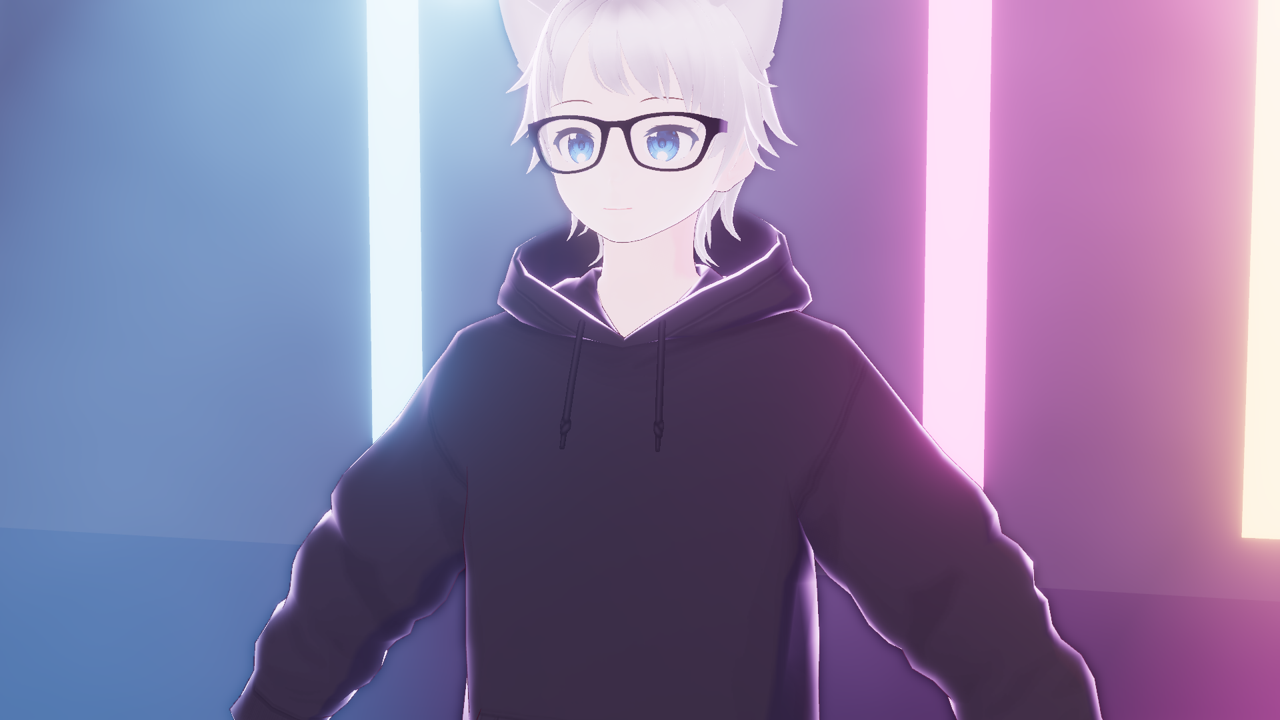
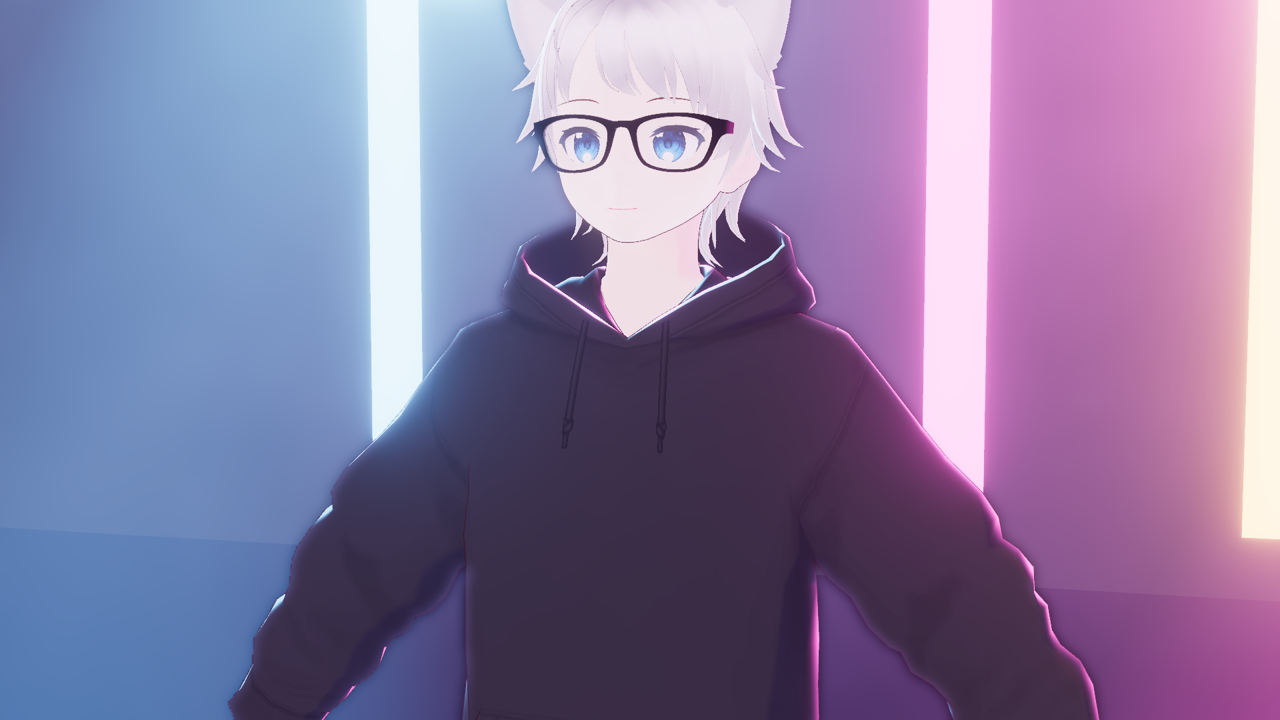
Record the character lighting evidence after the final-review fixes.

diff --git a/docs/evaluation/character-lighting.md b/docs/evaluation/character-lighting.md
@@ -1,6 +1,6 @@
 # Character lighting check
 
-Date: 2026-11-19. Contract: [character lighting](../../spdd/prompt/2026-11-19-character-lighting.md). Design: [character lighting design](../superpowers/specs/2026-11-19-character-lighting-design.md). Issues: #73 (MAT-01), #45 (ENV-07). Branch: `liltoon-avatar-lighting-f03807ca`. The last code commit is `13b225b`; this page is in the next commit. The baseline is `main` at `902af37`.
+Date: 2026-11-19. Contract: [character lighting](../../spdd/prompt/2026-11-19-character-lighting.md). Design: [character lighting design](../superpowers/specs/2026-11-19-character-lighting-design.md). Issues: #73 (MAT-01), #45 (ENV-07). Branch: `liltoon-avatar-lighting-f03807ca`. The last code commit is `ec02109`. The final-review fixes (`884f8a7` to `ec02109`) masked the rim to the lit side and changed how an avatar gets its ambient; the look, stall, and shadow results below are from those commits. The baseline is `main` at `902af37`.
 
 GPU time: unknown (#305).
 
@@ -16,29 +16,31 @@ GPU time: unknown (#305).
 
 ### Before and after
 
-Camera at [0, 1.3, 1.6], field of view 35°, idle animation off, 30 s after `scene_replace` so that a large avatar has loaded. "Before" is `main` with its default rig (one white directional light, intensity 3, and the fixed ambient light). "After" is `13b225b` with the new default rig (key, back, and fill lights). The value is the mean luminance of a head band (200 px under the top of the character) after / before, on pixels that are opaque in both images.
+Camera at [0, 1.3, 1.6], field of view 35°, idle animation off, 30 s after `scene_replace` so that a large avatar has loaded. "Before" is `main` with its default rig (one white directional light, intensity 3, and the fixed ambient light). "After" is `3671526` (the avatar path is the same at `ec02109`) with the new default rig (key, back, and fill lights). The value is the mean luminance of a head band (200 px under the top of the character) after / before, on pixels that are opaque in both images.
 
 | Avatar | Head band after / before |
 | --- | --- |
-| Catboy | 1.056 |
-| Avatar 2 | 1.068 |
-| Avatar 3 | 1.059 |
-| Avatar 4 | 1.063 |
-| Avatar 5 | 1.102 |
-| Avatar 6 | 0.984 |
-| VRM 1 sample | 1.061 |
-| Avatar 8 | 0.998 |
+| Avatar | New rig on the branch / `main` rig on `main` | `main` rig on the branch / `main` rig on `main` |
+| --- | --- | --- |
+| Catboy | 1.041 | 1.002 |
+| Avatar 2 | 1.048 | 1.002 |
+| Avatar 3 | 1.052 | 1.003 |
+| Avatar 4 | 1.034 | 1.003 |
+| Avatar 5 | 1.016 | 1.003 |
+| Avatar 6 | 0.935 | 1.001 |
+| VRM 1 sample | 1.038 | 1.001 |
+| Avatar 8 | 0.961 | 1.002 |
 
-Pass: no face is more than 10 % darker. With the `main` rig on both builds, the ratio is 1.000 to 1.003 for all eight avatars, so an existing show with its own lights keeps its face level.
+Pass: no face is more than 10 % darker. The second column is the same scene (the `main` default light, no Ambient light entity) on both builds: the face level does not change. A scene with an Ambient light entity was not measured.
 
 ![Catboy before (main) and after (branch)](character-lighting/catboy-before-after.png)
 
-The back light gives a rim on the hair, the shoulders, and the arms. On dark cloth at grazing angles, the rim is a wide band. A rim width sweep (exponent 4.75 to 10) changed the band only a small amount, because the cloth geometry is at a grazing angle there. The owner's look check decides this.
+The back light gives a rim on the hair, the shoulders, and the top of the arms. The first build also put a rim on the lower side of the arms and on the hem, because the rim did not depend on the side of the light. The rim now has a soft light-side mask (`smoothstep(-0.1, 0.4, N·L)`), and the rim on the lower edges is gone. The owner's look check decides the width of the rim on dark cloth.
 
 ### Tuned values
 
 - `EXPONENT` is `narrow 16`, `wide 4` (was 8 and 1.5). The default Rim Width 0.5 gives exponent 10.
-- The defaults stay `rimStrength 1`, `rimWidth 0.5`, `rimTint #ffffff`, `shadowStrength 0.6`, `environmentFill 1`. `CHARACTER_FILL` and `CHARACTER_AMBIENT` stay 0.5.
+- The defaults stay `rimStrength 1`, `rimWidth 0.5`, `rimTint #ffffff`, `shadowStrength 0.6`, `environmentFill 1`. `CHARACTER_FILL` and `CHARACTER_AMBIENT` stay 0.5. `CHARACTER_AMBIENT` now scales the ambient term of an avatar MToon material in its lighting model; it is not a separate light. With the fill, the total ambient of an avatar at the default values is the scene ambient. A material that is not MToon, and an MToon prop or environment, keep the scene ambient as on `main`.
 - Demo show: haze density 1 → 0.5 and intensity 2.5 → 1.2; the two back point lights 40 → 20; the Face camera gets the grading of the Wide camera (ACES, bloom 0.4, threshold 1, radius 0.4). Without tone mapping, the face on the Face camera clipped to white.
 
 ### Demo show
@@ -48,7 +50,10 @@ The back light gives a rim on the hair, the shoulders, and the arms. On dark clo
 ![Lighting demo, Face camera](character-lighting/demo-face.png)
 
 - The rim shows from each back light (left and right) in the preview and in OBS ([OBS image](character-lighting/obs-demo-wide.png)).
-- On the Face camera, the face keeps its color with the ACES grading. The renderer tests (`character-mtoon.test.ts`) check that a shadow moves a surface to the shade color. This page does not have an image that isolates the key shadow on the face. The owner's look check decides this.
+- On the Face camera, the face keeps its color with the ACES grading.
+- Shadow to the shade color: Catboy with the new rig, idle animation off, Shadow Strength 1 (left) and 0 (right). In the 1,812 skin pixels in the key light shadow, the mean color is (0.998, 0.891, 0.873) with Shadow Strength 1 and (0.999, 0.979, 0.926) with 0. Red stays and green and blue go down, so the shadow moves the skin to its pink shade color and does not make it grey.
+
+![Shadow Strength 1 and 0](character-lighting/shadow-pair.png)
 - File › Open of the demo show five times, alternating with `test-stage.osekai`, from a cold start: the stage and Catboy load each time, with no error. Before `1721f7c`, the first open sometimes failed with `Cannot destructure property 'useFrameBufferTarget' from null` (two `compileAsync` calls on one renderer at the same time).
 
 ### Editor
@@ -56,6 +61,8 @@ The back light gives a rim on the hair, the shoulders, and the arms. On dark clo
 The avatar Inspector has a Lighting section with Rim Strength, Rim Width, Rim Tint, Shadow Strength, and Environment Fill ([image](character-lighting/inspector-lighting.png)). A new scene has a Key Light, a Back Light, and a Fill Light ([image](character-lighting/new-scene-rig.png)).
 
 ## OBS output
+
+The OBS checks ran at `13b225b`. The later commits change only the avatar shading terms (the rim mask and the ambient scale), not the alpha or the post chain.
 
 | Check | Result |
 | --- | --- |
@@ -78,8 +85,9 @@ The Editor stops while new lit materials compile. The stall is the time from the
 | Experiment: no rim | 9879 / 9952 / 10131 |
 | Branch `e1669f9` (spherical-harmonics fill), run 1 | 7922 / 8011 / 8181 |
 | Branch `e1669f9`, run 2 | 7907 / 8025 / 8210 |
+| Branch `ec02109` (final) | 7842 / 6924 / 8148 |
 
-- The room map fill (three PMREM samples in each avatar shader) made the 8-light add 26 % longer: fail. The experiments showed that the fill, not the rim, was the cost. The fill now uses the nine spherical-harmonics coefficients of the room, read back one time for each renderer (contract R4). With this change, the 8-light add is 1.7 % longer than `main`: pass.
+- The room map fill (three PMREM samples in each avatar shader) made the 8-light add 26 % longer: fail. The experiments showed that the fill, not the rim, was the cost. The fill now uses the nine spherical-harmonics coefficients of the room, read back one time for each renderer (contract R4). With this change, the 8-light add is 1.7 % longer than `main`; at `ec02109` it is 1.0 % longer: pass.
 - A point or directional light add takes about 100 ms on both builds. The first add at 1 lit light is not a stable measurement, because the avatar can still be in load.
 - A spot light add takes 7 to 8 s on `main` too. This branch does not change that.
 - 30 light-set changes at 8 lit lights (15 adds and 15 removes): no frame warning and no `Pipeline compile failed`. The app had no `Room fill unavailable` warning, so the readback worked in WebKit.
@@ -93,12 +101,12 @@ The Editor stops while new lit materials compile. The stall is the time from the
 
 ## Headless checks
 
-These commands ran on macOS in this worktree at `13b225b`, with the Rust change of the next commit and this page.
+The TypeScript commands ran on macOS in this worktree at `ec02109`. The Rust commands ran at `bfa7e8d`; no later commit changes Rust.
 
 | Command | Result |
 | --- | --- |
 | `pnpm check` | Exit 0. svelte-check 5897 files, 0 errors, 0 warnings. |
-| `pnpm test:unit` | Exit 1. 285 files passed, 1 failed; 2723 tests passed, 1 failed. The failure is `packages/contracts/test/meshes.test.ts`: the local asset manifest does not have `fixture_vrm0_arkit` (see above). |
+| `pnpm test:unit` | Exit 1. 285 files passed, 1 failed; 2732 tests passed, 1 failed. The failure is `packages/contracts/test/meshes.test.ts`: the local asset manifest does not have `fixture_vrm0_arkit` (see above). |
 | `pnpm test:integration` | Exit 0. 49 files passed; 121 tests passed, 4 skipped. |
 | `cargo fmt --all --check` | Exit 1. Differences in `apps/desktop/src-tauri/src/recent_shows.rs` and `apps/desktop/src-tauri/src/tracking/parser.rs` only. This branch does not change those files. |
 | `cargo clippy --workspace --all-targets -- -D warnings` | Exit 0, 0 warnings. The first run failed with `large_enum_variant` on `PatchOp`, because the avatar entity got the `lighting` group. The group is now `Option<Box<AvatarLighting>>`, as `effects` of a camera is. |
@@ -109,5 +117,5 @@ These commands ran on macOS in this worktree at `13b225b`, with the Rust change 
 - GPU time (#305).
 - The spherical-harmonics readback and the avatar look on WebGL 2. The unit tests do not draw.
 - Windows.
-- A scene with an Ambient light entity: the character gets the ambient light and a fill of 0.5 × the same color, about 1.5 × the ambient light alone. The owner's look check decides this.
-- A lit avatar material that is not MToon gets `CHARACTER_AMBIENT` 0.5 and no fill, so it is darker in the ambient part than on `main`. No avatar in the check had such a material.
+- The look of a scene with an Ambient light entity on the eight avatars. By the shader, the ambient of an avatar MToon material is 0.5 × the entity ambient plus a fill of 0.5 × the same color, so the total is the entity ambient. The demo show has an Ambient light entity and is in the images above.
+- An avatar with a lit material that is not MToon. No avatar in the check had one. By the code, it keeps the scene ambient as on `main`.

diff --git a/docs/warudo-parity.md b/docs/warudo-parity.md
@@ -200,7 +200,7 @@ Unity URP is an engine implementation, not a portable feature. Track the resulti
 
 Sources: [Warudo Pro](https://docs.warudo.app/docs/pro), [Character](https://docs.warudo.app/docs/assets/character), and handbook asset entries for NiloToon controllers and post-processing. lilToon import behavior is an additional OpenSekai goal.
 
-- [ ] MAT-01 — VRM MToon and glTF PBR. First. Partial (character lighting): each MToon surface is a `CharacterMToonMaterial`. A light shadow moves a surface to the shade color. A back light adds a rim that follows the light color. A diffuse fill comes from the spherical-harmonics irradiance of the room and the Ambient light. An avatar has a Lighting group (Rim Strength, Rim Width, Rim Tint, Shadow Strength, Environment Fill) in the Inspector, MCP `scene_patch`, and Blueprint Set Asset Property. Verified on macOS (debug build, WebGPU in WKWebView and in OBS 33.0.1, `production_v1`) with Catboy and seven more VRM files: with the old default light, no face is more than 10 % darker, and with the light of an existing show the face level does not change; OBS alpha is correct over dark, light, and checker; the output continues with the Editor minimized; a spot light add at 8 lit lights is 1.7 % longer than on `main` ([check](evaluation/character-lighting.md), [contract](../spdd/prompt/2026-11-19-character-lighting.md)). Not verified: WebGL 2, Windows, and GPU time. lilToon is MAT-02. [GitHub #73](https://github.com/danirukun/opensekai/issues/73)
+- [ ] MAT-01 — VRM MToon and glTF PBR. First. Partial (character lighting): each MToon surface is a `CharacterMToonMaterial`. A light shadow moves a surface to the shade color. A back light adds a rim on the lit side that follows the light color. A diffuse fill comes from the spherical-harmonics irradiance of the room and the Ambient light. An avatar has a Lighting group (Rim Strength, Rim Width, Rim Tint, Shadow Strength, Environment Fill) in the Inspector, MCP `scene_patch`, and Blueprint Set Asset Property. Verified on macOS (debug build, WebGPU in WKWebView and in OBS 33.0.1, `production_v1`) with Catboy and seven more VRM files: with the new default lights, no face is more than 10 % darker than with the old default light on `main`; with the old default light (no Ambient light entity) on both builds, the face level does not change; with Shadow Strength 1, the key light shadow moves the skin of Catboy to its shade color; OBS alpha is correct over dark, light, and checker; the output continues with the Editor minimized; a spot light add at 8 lit lights is 1.0 % longer than on `main` ([check](evaluation/character-lighting.md), [contract](../spdd/prompt/2026-11-19-character-lighting.md)). Not verified: WebGL 2, Windows, and GPU time. lilToon is MAT-02. [GitHub #73](https://github.com/danirukun/opensekai/issues/73)
   - Workshop study: The built-in Standard shader is in 11 of 28 items and VRM MToon in 2. Bundled shaders are compiled programs for the build platform. A material maps by its shader name and saved properties.
 - [ ] MAT-02 — Selected lilToon conversion profiles. Later; Approximate. [GitHub #74](https://github.com/danirukun/opensekai/issues/74)
   - Workshop study: lilToon is in 8 of 28 items. Poiyomi (locked), asset-store, custom, and VRChat world shaders occur in 5 items and have no profile.

diff --git a/spdd/prompt/2026-11-19-character-lighting.md b/spdd/prompt/2026-11-19-character-lighting.md
@@ -2,7 +2,7 @@
 
 Date: 2026-11-19. Analysis: [character lighting](../analysis/2026-11-19-character-lighting.md). Design: [character lighting design](../../docs/superpowers/specs/2026-11-19-character-lighting-design.md). Plan: [character lighting plan](../../docs/superpowers/plans/2026-11-19-character-lighting.md). Issues: [#73](https://github.com/danirukun/opensekai/issues/73) (MAT-01), [#45](https://github.com/danirukun/opensekai/issues/45) (ENV-07). Related: [camera grading](2026-11-10-camera-grading.md) (the template of the entity group and the patch operation), [material profiles](2026-11-03-material-profiles.md) (the MToon UV animation and the headless fixture check).
 
-Status: implemented on `liltoon-avatar-lighting-f03807ca` (code to `13b225b`); macOS evidence in [the character lighting check](../../docs/evaluation/character-lighting.md). The owner's look check is open. Not verified: WebGL 2, Windows, and GPU time.
+Status: implemented on `liltoon-avatar-lighting-f03807ca` (code to `ec02109`); macOS evidence in [the character lighting check](../../docs/evaluation/character-lighting.md). The owner's look check is open. Not verified: WebGL 2, Windows, and GPU time.
 
 ## R — Requirements
 
